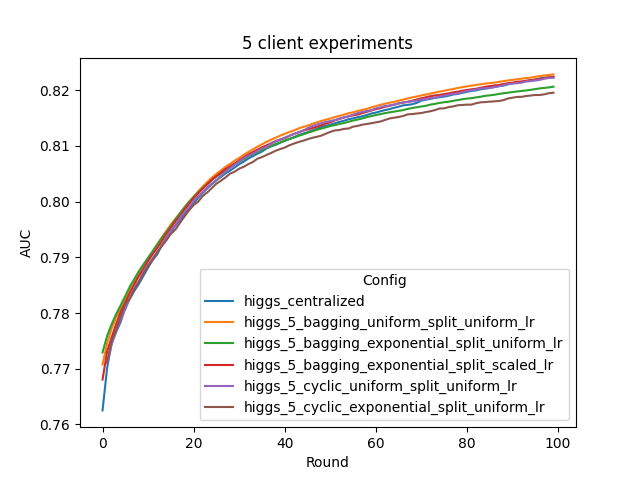
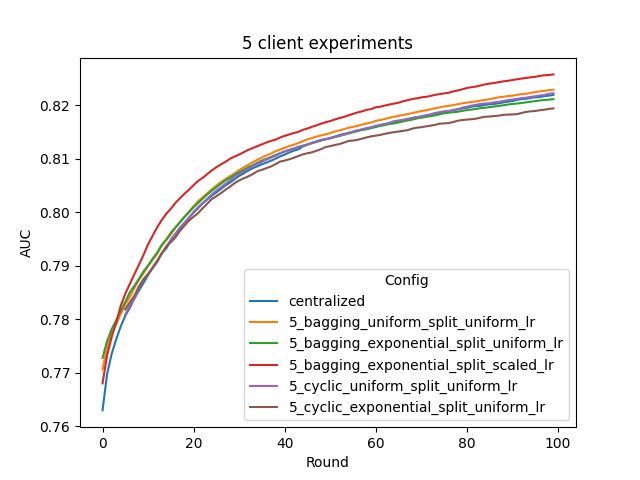
convert to simulator with latest performance updates

diff --git a/examples/xgboost/utils/plot_tensorboard_events.py b/examples/xgboost/utils/plot_tensorboard_events.py
@@ -19,33 +19,33 @@ import matplotlib.pyplot as plt
 import seaborn as sns
 import tensorflow as tf
 
-# poc workspace
+# simulator workspace
 client_results_root = "./workspaces/xgboost_workspace_"
 client_num_list = [5, 20]
-client_pre = "site-"
+client_pre = "app_site-"
 centralized_path = "./workspaces/centralized_1_1/events.*"
 
 # bagging and cyclic need different handle
 experiments_bagging = {
     5: {
-        "higgs_5_bagging_uniform_split_uniform_lr": {"tag": "AUC"},
-        "higgs_5_bagging_exponential_split_uniform_lr": {"tag": "AUC"},
-        "higgs_base": {"tag": "AUC"},
+        "5_bagging_uniform_split_uniform_lr": {"tag": "AUC"},
+        "5_bagging_exponential_split_uniform_lr": {"tag": "AUC"},
+        "5_bagging_exponential_split_scaled_lr": {"tag": "AUC"}
     },
     20: {
-        "higgs_20_bagging_uniform_split_uniform_lr": {"tag": "AUC"},
-        "higgs_20_bagging_square_split_uniform_lr": {"tag": "AUC"},
-        "higgs_20_bagging_square_split_scaled_lr": {"tag": "AUC"},
+        "20_bagging_uniform_split_uniform_lr": {"tag": "AUC"},
+        "20_bagging_square_split_uniform_lr": {"tag": "AUC"},
+        "20_bagging_square_split_scaled_lr": {"tag": "AUC"},
     },
 }
 experiments_cyclic = {
     5: {
-        "higgs_5_cyclic_uniform_split_uniform_lr": {"tag": "AUC"},
-        "higgs_5_cyclic_exponential_split_uniform_lr": {"tag": "AUC"},
+        "5_cyclic_uniform_split_uniform_lr": {"tag": "AUC"},
+        "5_cyclic_exponential_split_uniform_lr": {"tag": "AUC"},
     },
     20: {
-        "higgs_20_cyclic_uniform_split_uniform_lr": {"tag": "AUC"},
-        "higgs_20_cyclic_square_split_uniform_lr": {"tag": "AUC"},
+        "20_cyclic_uniform_split_uniform_lr": {"tag": "AUC"},
+        "20_cyclic_square_split_uniform_lr": {"tag": "AUC"},
     },
 }
 
@@ -60,20 +60,6 @@ def smooth(scalars, weight):  # Weight between 0 and 1
         smoothed.append(smoothed_val)  # Save it
         last = smoothed_val  # Anchor the last smoothed value
     return smoothed
-
-
-def find_job_id(workdir, fl_app_name="xgboost"):
-    """Find the first matching experiment"""
-    target_path = os.path.join(workdir, "*", "fl_app.txt")
-    fl_app_files = glob.glob(target_path, recursive=True)
-    assert len(fl_app_files) > 0, f"No `fl_app.txt` files found in workdir={workdir}."
-    for fl_app_file in fl_app_files:
-        with open(fl_app_file, "r") as f:
-            _fl_app_name = f.read()
-        if fl_app_name == _fl_app_name:  # alpha will be matched based on value in config file
-            job_id = os.path.basename(os.path.dirname(fl_app_file))
-            return job_id
-    raise ValueError(f"No job id found for fl_app_name={fl_app_name} in workdir={workdir}")
 
 
 def read_eventfile(filepath, tags=["AUC"]):
@@ -119,16 +105,12 @@ def main():
         assert len(eventfile) == 1, "No unique event file found!" + eventfile
         eventfile = eventfile[0]
         print("adding", eventfile)
-        add_eventdata(data, "higgs_centralized", eventfile, tag="AUC")
-        # Pick first client for bagging experiments
+        add_eventdata(data, "centralized", eventfile, tag="AUC")
+        # pick first client for bagging experiments
         site = 1
         for config, exp in experiments_bagging[client_num].items():
-            job_id = find_job_id(
-                workdir=os.path.join(client_results_root + str(client_num), client_pre + str(site)), fl_app_name=config
-            )
-            print(f"Found run {job_id} for {config}")
             record_path = os.path.join(
-                client_results_root + str(client_num), client_pre + str(site), job_id, "*", "events.*"
+                client_results_root + config, "simulate_job", client_pre + str(site), "events.*"
             )
             eventfile = glob.glob(record_path, recursive=True)
             assert len(eventfile) == 1, "No unique event file found!"
@@ -139,16 +121,11 @@ def main():
         # Combine all clients' records for cyclic experiments
         for site in range(1, client_num + 1):
             for config, exp in experiments_cyclic[client_num].items():
-                job_id = find_job_id(
-                    workdir=os.path.join(client_results_root + str(client_num), client_pre + str(site)),
-                    fl_app_name=config,
-                )
-                print(f"Found run {job_id} for {config}")
                 record_path = os.path.join(
-                    client_results_root + str(client_num), client_pre + str(site), job_id, "*", "events.*"
+                    client_results_root + config, "simulate_job", client_pre + str(site), "events.*"
                 )
                 eventfile = glob.glob(record_path, recursive=True)
-                assert len(eventfile) == 1, "No unique event file found!"
+                assert len(eventfile) == 1, f"No unique event file found under {record_path}!"
                 eventfile = eventfile[0]
                 print("adding", eventfile)
                 add_eventdata(data, config, eventfile, tag=exp["tag"])

diff --git a/examples/xgboost/README.md b/examples/xgboost/README.md
@@ -74,18 +74,6 @@ python3 -m pip install tensorboard
 python3 -m pip install tensorflow
 python3 -m pip install seaborn
 ```
-### Set up FL workspace
-Follow the [Quickstart](https://nvflare.readthedocs.io/en/main/quickstart.html) instructions to set up your POC ("proof of concept") workspace.
-
-Here, we run the following script
-```
-bash create_poc_workspace.sh 5
-```
-and 
-```
-bash create_poc_workspace.sh 20
-```
-for our two experimental settings: 5-client and 20-client.
 
 ### Prepare job configs under various training schemes
 We then prepare the job configs for NVFlare jobs corresponding to various settings by running
@@ -105,44 +93,11 @@ By default, cpu based training is used.  For gpu based training, edit `job_conf_
 
 > **_NOTE:_** Cyclic training always use uniform shrinkage. The generated job config files will be stored in the folder `./job_configs`
 
-### Option 1: start the FL system and submit jobs
-Next, we will start the FL system and submit jobs to start FL training automatically.
-
-Start the FL system with either 5 clients or 20 clients
+### Run local experiments with simulator
+Next, we will use the NVFlare simulator to run FL training automatically.
 ```
-bash start_fl_poc.sh 5
+bash run_experiment_simulator.sh
 ```
-or
-```
-bash start_fl_poc.sh 20
-```
-This script will start the FL server and clients automatically to run FL experiments on localhost. 
-
-Then FL training will be run with an automatic script utilizing the FLAdminAPI functionality.    
-The [submit_job.sh](./submit_job.sh) script follows the pattern:
-```
-bash ./submit_job.sh [client_num] [training_option] [split] [lr_scheme]
-```
-The arguments control which config to use.  
-
-### Option 2: run all jobs together
-To run all experiments under 5-client or 20-client settings in one command, simply run
-```
-bash run_experiment_5.sh
-```
-or
-```
-bash run_experiment_20.sh
-```
-
-### Shut down the server/clients
-
-To shut down the clients and server, run the following Admin commands:
-```
-shutdown client
-shutdown server
-```
-> **_NOTE:_** For more information about the Admin client, see [here](https://nvflare.readthedocs.io/en/main/user_guide/operation.html).
 
 ## Results on 5- and 20-client under various training settings
 For comparison, we train baseline models in a centralized manner with same round of training
@@ -171,7 +126,7 @@ As illustrated, we can have the following observations:
 - cyclic training performs ok under uniform split (the purple curve), however under non-uniform split, it will have significant performance drop (the brown curve)
 - bagging training performs better than cyclic under both uniform and non-uniform data splits (orange v.s. purple, red/green v.s. brown)
 - with uniform shrinkage, bagging will have significant performance drop under non-uniform split (green v.s. orange)
-- data-size dependent shrinkage will be able to recover the performance drop above (red v.s. green), and achieve almost the same performance as uniform data split (red v.s. orange) 
+- data-size dependent shrinkage will be able to recover the performance drop above (red v.s. green), and achieve comparable/better performance as uniform data split (red v.s. orange) 
 - bagging under uniform data split (orange), and bagging with data-size dependent shrinkage under non-uniform data split(red), can achieve comparable/better performance as compared with centralized training baseline (blue)
 
 For model size, centralized training and cyclic training will have a model consisting of `num_round` trees, while the bagging models consist of `num_round * num_client` trees, since each round, bagging training boosts a forest consisting of individually trained trees from each client.
